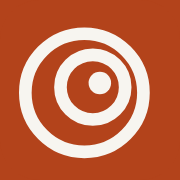
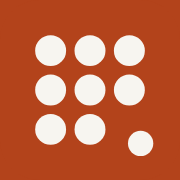
Switch hero motif to signal-to-noise dot grid
Replace the contour-line hero background with a dot grid that degrades
from ordered signal into noise, and update the logo mark, favicon,
touch icon and social card to match. On phones the mask is shifted to
show the transition rather than only the noisy end. The contour motif
stays in images/contours.svg with its CSS lines commented out as a
backup.

Also fix the About photo rendering tall and narrow on mobile: the
height attribute overrode the square aspect ratio.

Changed region(s): [[0.0833, 0.1389, 0.8611, 0.8889]]

diff --git a/styles.css b/styles.css
@@ -7,7 +7,8 @@
     --rule: #dcd8cf;
     --accent: #b3431b;
     --accent-ink: #ffffff;
-    --contour: rgba(179, 67, 27, 0.22);
+    --motif: rgba(179, 67, 27, 0.4);
+    /* Backup contour motif color: --motif: rgba(179, 67, 27, 0.22); */
     --serif: 'Fraunces', Georgia, 'Times New Roman', serif;
     --sans: 'IBM Plex Sans', system-ui, -apple-system, 'Segoe UI', sans-serif;
     --mono: 'IBM Plex Mono', ui-monospace, Menlo, Consolas, monospace;
@@ -26,7 +27,8 @@
         --rule: #2e2f33;
         --accent: #f0915a;
         --accent-ink: #121315;
-        --contour: rgba(240, 145, 90, 0.18);
+        --motif: rgba(240, 145, 90, 0.32);
+        /* Backup contour motif color: --motif: rgba(240, 145, 90, 0.18); */
     }
 }
 
@@ -171,9 +173,14 @@ p {
     content: '';
     position: absolute;
     inset: 0;
-    background-color: var(--contour);
+    background-color: var(--motif);
+    -webkit-mask: url('images/signal-noise.svg') right center / cover no-repeat;
+    mask: url('images/signal-noise.svg') right center / cover no-repeat;
+    /* Backup contour motif: swap these in for the two lines above, use the
+       backup --motif colors, and drop the mobile mask-position override.
     -webkit-mask: url('images/contours.svg') right center / cover no-repeat;
     mask: url('images/contours.svg') right center / cover no-repeat;
+    */
     pointer-events: none;
 }
 
@@ -511,6 +518,7 @@ p {
 
 .about img {
     width: 100%;
+    height: auto;
     aspect-ratio: 1;
     object-fit: cover;
     border-radius: 6px;
@@ -598,6 +606,12 @@ p {
 
     .site-nav {
         width: 100%;
+    }
+
+    /* Show where the grid starts breaking up, not just the noisy end */
+    .hero::before {
+        -webkit-mask-position: 45% center;
+        mask-position: 45% center;
     }
 
     .site-nav ul {

diff --git a/README.md b/README.md
@@ -5,6 +5,6 @@ Static single-page site served by GitHub Pages: `index.html` and `styles.css`, n
 ## Assets
 
 - `favicon.svg` is the logo mark (also used in the header); `images/apple-touch-icon.png` is a 180px render of it
-- `images/contours.svg` is the hero's contour-line motif, applied as a CSS mask so it follows the light/dark theme
+- `images/signal-noise.svg` is the hero motif (a dot grid degrading from signal into noise), applied as a CSS mask so it follows the light/dark theme; `images/contours.svg` is the earlier contour-line motif, kept as a backup with its CSS lines commented out in `styles.css`
 - `images/social-card.png` is the 1200x630 link preview image
 - `images/profile-480.jpg` is the resized photo shown on the page; `images/profile.JPG` is the full-size original
